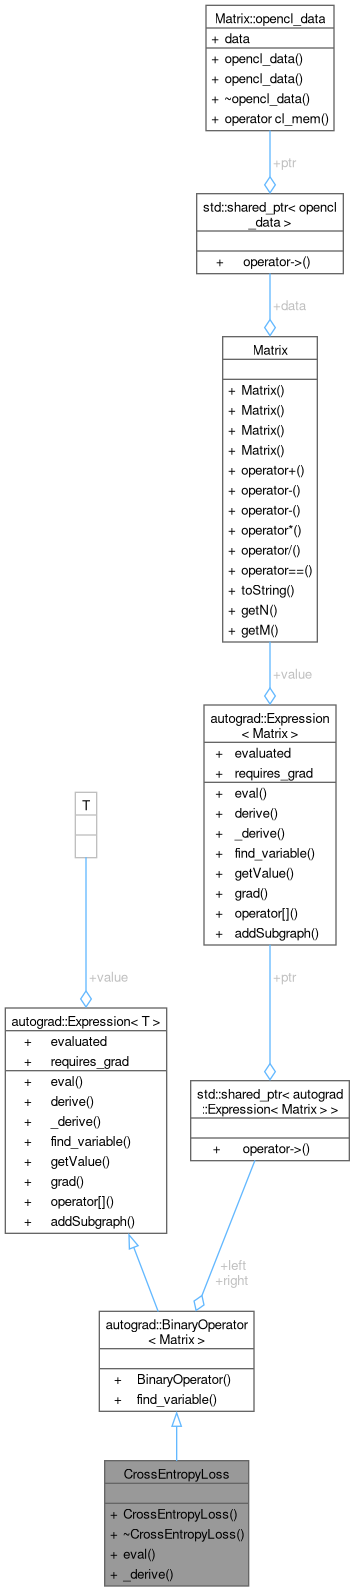
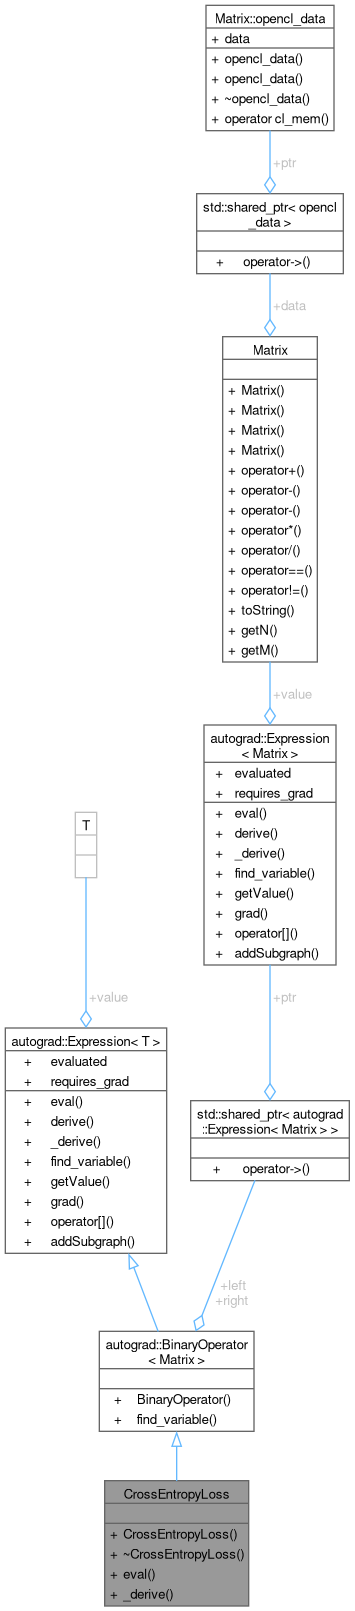
deploy: 7e983b3facf35f282086e7a9edfca2e256aae604

Changed region(s): [[0.5577, 0.0, 0.9606, 0.616], [0.031, 0.616, 0.9915, 0.9855], [0.2169, 0.4928, 0.2789, 0.5544]]

diff --git a/Matrix_8h_source.html b/Matrix_8h_source.html
@@ -160,19 +160,20 @@ $(function(){initNavTree('Matrix_8h_source.html',''); initResizable(); });
 <div class="line"><a id="l00080" name="l00080"></a><span class="lineno">   80</span>  <a class="code hl_class" href="classMatrix.html">Matrix</a> operator/(<span class="keyword">const</span> <a class="code hl_class" href="classMatrix.html">Matrix</a> &amp;other) <span class="keyword">const</span>;</div>
 <div class="line"><a id="l00081" name="l00081"></a><span class="lineno">   81</span> </div>
 <div class="line"><a id="l00082" name="l00082"></a><span class="lineno">   82</span>  <span class="keywordtype">bool</span> operator==(<span class="keyword">const</span> <a class="code hl_class" href="classMatrix.html">Matrix</a> &amp;other) <span class="keyword">const</span>;</div>
-<div class="line"><a id="l00083" name="l00083"></a><span class="lineno">   83</span> </div>
-<div class="line"><a id="l00089" name="l00089"></a><span class="lineno">   89</span>  std::string <a class="code hl_function" href="classMatrix.html#ae7b85f11d14cbb6db0aaaf63367e4495">toString</a>() <span class="keyword">const</span>;</div>
-<div class="line"><a id="l00090" name="l00090"></a><span class="lineno">   90</span> </div>
-<div class="line"><a id="l00096" name="l00096"></a><span class="lineno">   96</span>  <span class="keywordtype">size_t</span> <a class="code hl_function" href="classMatrix.html#ad7ec78c77398077cde507c32df69a0bd">getN</a>();</div>
-<div class="line"><a id="l00102" name="l00102"></a><span class="lineno">  102</span>  <span class="keywordtype">size_t</span> <a class="code hl_function" href="classMatrix.html#a4f8207471478ed8f8779ee7fe4efedfe">getM</a>();</div>
-<div class="line"><a id="l00106" name="l00106"></a><span class="lineno"><a class="line" href="classMatrix.html#a094fd936bb6dbc68545d29a760818a7f">  106</a></span>  std::shared_ptr&lt;opencl_data&gt; <a class="code hl_variable" href="classMatrix.html#a094fd936bb6dbc68545d29a760818a7f">data</a>;</div>
-<div class="line"><a id="l00107" name="l00107"></a><span class="lineno">  107</span>};</div>
+<div class="line"><a id="l00083" name="l00083"></a><span class="lineno">   83</span>  <span class="keywordtype">bool</span> operator!=(<span class="keyword">const</span> <a class="code hl_class" href="classMatrix.html">Matrix</a> &amp;other) <span class="keyword">const</span>;</div>
+<div class="line"><a id="l00084" name="l00084"></a><span class="lineno">   84</span> </div>
+<div class="line"><a id="l00090" name="l00090"></a><span class="lineno">   90</span>  std::string <a class="code hl_function" href="classMatrix.html#ae7b85f11d14cbb6db0aaaf63367e4495">toString</a>() <span class="keyword">const</span>;</div>
+<div class="line"><a id="l00091" name="l00091"></a><span class="lineno">   91</span> </div>
+<div class="line"><a id="l00097" name="l00097"></a><span class="lineno">   97</span>  <span class="keywordtype">size_t</span> <a class="code hl_function" href="classMatrix.html#ad7ec78c77398077cde507c32df69a0bd">getN</a>();</div>
+<div class="line"><a id="l00103" name="l00103"></a><span class="lineno">  103</span>  <span class="keywordtype">size_t</span> <a class="code hl_function" href="classMatrix.html#a4f8207471478ed8f8779ee7fe4efedfe">getM</a>();</div>
+<div class="line"><a id="l00107" name="l00107"></a><span class="lineno"><a class="line" href="classMatrix.html#a094fd936bb6dbc68545d29a760818a7f">  107</a></span>  std::shared_ptr&lt;opencl_data&gt; <a class="code hl_variable" href="classMatrix.html#a094fd936bb6dbc68545d29a760818a7f">data</a>;</div>
+<div class="line"><a id="l00108" name="l00108"></a><span class="lineno">  108</span>};</div>
 </div>
 <div class="ttc" id="aUtil_8h_html"><div class="ttname"><a href="Util_8h.html">Util.h</a></div><div class="ttdoc">definicija korisnih globalnih funkcija i konstanti</div></div>
 <div class="ttc" id="aUtil_8h_html_a0b20f7cf32ea44d98f1dad0373d187cf"><div class="ttname"><a href="Util_8h.html#a0b20f7cf32ea44d98f1dad0373d187cf">checkError</a></div><div class="ttdeci">void checkError(int value)</div><div class="ttdoc">funkcija koja na temelju OpenCL koda baca iznimke ili ne vraća ništa</div><div class="ttdef"><b>Definition</b> Util.cpp:16</div></div>
 <div class="ttc" id="aUtil_8h_html_ab62df1e75bbaf76fd1088a2cfb20355b"><div class="ttname"><a href="Util_8h.html#ab62df1e75bbaf76fd1088a2cfb20355b">globalContext</a></div><div class="ttdeci">cl_context globalContext</div><div class="ttdoc">globalni OpenCL kontekst koje se inicijalizira prilikom pokretanja initCL funkcije</div><div class="ttdef"><b>Definition</b> Util.cpp:12</div></div>
 <div class="ttc" id="aclassMatrix_html"><div class="ttname"><a href="classMatrix.html">Matrix</a></div><div class="ttdoc">klasa koja enkapsulira podatke o matrici koji su spremljeni na povezanom OpenCL uređaju</div><div class="ttdef"><b>Definition</b> Matrix.h:20</div></div>
-<div class="ttc" id="aclassMatrix_html_a094fd936bb6dbc68545d29a760818a7f"><div class="ttname"><a href="classMatrix.html#a094fd936bb6dbc68545d29a760818a7f">Matrix::data</a></div><div class="ttdeci">std::shared_ptr&lt; opencl_data &gt; data</div><div class="ttdoc">referenca na OpenCL podatke</div><div class="ttdef"><b>Definition</b> Matrix.h:106</div></div>
+<div class="ttc" id="aclassMatrix_html_a094fd936bb6dbc68545d29a760818a7f"><div class="ttname"><a href="classMatrix.html#a094fd936bb6dbc68545d29a760818a7f">Matrix::data</a></div><div class="ttdeci">std::shared_ptr&lt; opencl_data &gt; data</div><div class="ttdoc">referenca na OpenCL podatke</div><div class="ttdef"><b>Definition</b> Matrix.h:107</div></div>
 <div class="ttc" id="aclassMatrix_html_a2dba13c45127354c9f75ef576f49269b"><div class="ttname"><a href="classMatrix.html#a2dba13c45127354c9f75ef576f49269b">Matrix::Matrix</a></div><div class="ttdeci">Matrix()</div><div class="ttdoc">prazni konstruktor koji se koristi za neinicijalizirane matrice</div><div class="ttdef"><b>Definition</b> Matrix.cpp:38</div></div>
 <div class="ttc" id="aclassMatrix_html_a4f8207471478ed8f8779ee7fe4efedfe"><div class="ttname"><a href="classMatrix.html#a4f8207471478ed8f8779ee7fe4efedfe">Matrix::getM</a></div><div class="ttdeci">size_t getM()</div><div class="ttdoc">getter za broj M</div><div class="ttdef"><b>Definition</b> Matrix.cpp:71</div></div>
 <div class="ttc" id="aclassMatrix_html_ad7ec78c77398077cde507c32df69a0bd"><div class="ttname"><a href="classMatrix.html#ad7ec78c77398077cde507c32df69a0bd">Matrix::getN</a></div><div class="ttdeci">size_t getN()</div><div class="ttdoc">getter za broj N</div><div class="ttdef"><b>Definition</b> Matrix.cpp:68</div></div>

diff --git a/classMatrix-members.html b/classMatrix-members.html
@@ -123,13 +123,14 @@ $(function(){initNavTree('classMatrix.html',''); initResizable(); });
   <tr class="even"><td class="entry"><a class="el" href="classMatrix.html#ae50a96f84c232df0d625ebbeee95cce7">Matrix</a>(std::initializer_list&lt; std::initializer_list&lt; float &gt; &gt; mat)</td><td class="entry"><a class="el" href="classMatrix.html">Matrix</a></td><td class="entry"></td></tr>
   <tr class="odd"><td class="entry"><a class="el" href="classMatrix.html#a49cc9b0f09e493648471bb928281acfe">Matrix</a>(const float x)</td><td class="entry"><a class="el" href="classMatrix.html">Matrix</a></td><td class="entry"></td></tr>
   <tr class="even"><td class="entry"><a class="el" href="classMatrix.html#a2dba13c45127354c9f75ef576f49269b">Matrix</a>()</td><td class="entry"><a class="el" href="classMatrix.html">Matrix</a></td><td class="entry"></td></tr>
-  <tr bgcolor="#f0f0f0" class="odd"><td class="entry"><b>operator*</b>(const Matrix &amp;other) const (definirano u <a class="el" href="classMatrix.html">Matrix</a>)</td><td class="entry"><a class="el" href="classMatrix.html">Matrix</a></td><td class="entry"></td></tr>
-  <tr bgcolor="#f0f0f0" class="even"><td class="entry"><b>operator+</b>(const Matrix &amp;other) const (definirano u <a class="el" href="classMatrix.html">Matrix</a>)</td><td class="entry"><a class="el" href="classMatrix.html">Matrix</a></td><td class="entry"></td></tr>
-  <tr bgcolor="#f0f0f0" class="odd"><td class="entry"><b>operator-</b>(const Matrix &amp;other) const (definirano u <a class="el" href="classMatrix.html">Matrix</a>)</td><td class="entry"><a class="el" href="classMatrix.html">Matrix</a></td><td class="entry"></td></tr>
-  <tr bgcolor="#f0f0f0" class="even"><td class="entry"><b>operator-</b>() const (definirano u <a class="el" href="classMatrix.html">Matrix</a>)</td><td class="entry"><a class="el" href="classMatrix.html">Matrix</a></td><td class="entry"></td></tr>
-  <tr bgcolor="#f0f0f0" class="odd"><td class="entry"><b>operator/</b>(const Matrix &amp;other) const (definirano u <a class="el" href="classMatrix.html">Matrix</a>)</td><td class="entry"><a class="el" href="classMatrix.html">Matrix</a></td><td class="entry"></td></tr>
-  <tr bgcolor="#f0f0f0" class="even"><td class="entry"><b>operator==</b>(const Matrix &amp;other) const (definirano u <a class="el" href="classMatrix.html">Matrix</a>)</td><td class="entry"><a class="el" href="classMatrix.html">Matrix</a></td><td class="entry"></td></tr>
-  <tr class="odd"><td class="entry"><a class="el" href="classMatrix.html#ae7b85f11d14cbb6db0aaaf63367e4495">toString</a>() const</td><td class="entry"><a class="el" href="classMatrix.html">Matrix</a></td><td class="entry"></td></tr>
+  <tr bgcolor="#f0f0f0" class="odd"><td class="entry"><b>operator!=</b>(const Matrix &amp;other) const (definirano u <a class="el" href="classMatrix.html">Matrix</a>)</td><td class="entry"><a class="el" href="classMatrix.html">Matrix</a></td><td class="entry"></td></tr>
+  <tr bgcolor="#f0f0f0" class="even"><td class="entry"><b>operator*</b>(const Matrix &amp;other) const (definirano u <a class="el" href="classMatrix.html">Matrix</a>)</td><td class="entry"><a class="el" href="classMatrix.html">Matrix</a></td><td class="entry"></td></tr>
+  <tr bgcolor="#f0f0f0" class="odd"><td class="entry"><b>operator+</b>(const Matrix &amp;other) const (definirano u <a class="el" href="classMatrix.html">Matrix</a>)</td><td class="entry"><a class="el" href="classMatrix.html">Matrix</a></td><td class="entry"></td></tr>
+  <tr bgcolor="#f0f0f0" class="even"><td class="entry"><b>operator-</b>(const Matrix &amp;other) const (definirano u <a class="el" href="classMatrix.html">Matrix</a>)</td><td class="entry"><a class="el" href="classMatrix.html">Matrix</a></td><td class="entry"></td></tr>
+  <tr bgcolor="#f0f0f0" class="odd"><td class="entry"><b>operator-</b>() const (definirano u <a class="el" href="classMatrix.html">Matrix</a>)</td><td class="entry"><a class="el" href="classMatrix.html">Matrix</a></td><td class="entry"></td></tr>
+  <tr bgcolor="#f0f0f0" class="even"><td class="entry"><b>operator/</b>(const Matrix &amp;other) const (definirano u <a class="el" href="classMatrix.html">Matrix</a>)</td><td class="entry"><a class="el" href="classMatrix.html">Matrix</a></td><td class="entry"></td></tr>
+  <tr bgcolor="#f0f0f0" class="odd"><td class="entry"><b>operator==</b>(const Matrix &amp;other) const (definirano u <a class="el" href="classMatrix.html">Matrix</a>)</td><td class="entry"><a class="el" href="classMatrix.html">Matrix</a></td><td class="entry"></td></tr>
+  <tr class="even"><td class="entry"><a class="el" href="classMatrix.html#ae7b85f11d14cbb6db0aaaf63367e4495">toString</a>() const</td><td class="entry"><a class="el" href="classMatrix.html">Matrix</a></td><td class="entry"></td></tr>
 </table></div><!-- contents -->
 </div><!-- doc-content -->
 <!-- start footer part -->

diff --git a/classReLU.html b/classReLU.html
@@ -140,25 +140,25 @@ Kolaboracijski dijagram za ReLU:</div>
 <div class="dyncontent">
 <div class="center"><img src="classReLU__coll__graph.png" border="0" usemap="#aReLU_coll__map" alt="Collaboration graph"/></div>
 <map name="aReLU_coll__map" id="aReLU_coll__map">
-<area shape="rect" title="klasa koja implementira funkciju &quot;leaky ReLU&quot;" alt="" coords="211,1446,319,1591"/>
-<area shape="rect" href="structautograd_1_1UnaryOperator.html" title=" " alt="" coords="100,1296,253,1396"/>
-<area shape="poly" title=" " alt="" coords="211,1408,230,1445,225,1447,207,1411"/>
-<area shape="rect" href="structautograd_1_1Expression.html" title="struktura koja predstavlja apstraktni matematički izraz ili varijablu. Generalno ju možemo zamisliti ..." alt="" coords="5,1008,167,1233"/>
-<area shape="poly" title=" " alt="" coords="139,1246,160,1296,155,1298,134,1248"/>
-<area shape="rect" title=" " alt="" coords="75,792,97,858"/>
-<area shape="poly" title=" " alt="" coords="89,857,89,991,83,991,83,857"/>
-<area shape="rect" title=" " alt="" coords="191,1081,349,1161"/>
-<area shape="poly" title=" " alt="" coords="256,1161,206,1282,201,1280,251,1159"/>
-<area shape="rect" href="structautograd_1_1Expression.html" title=" " alt="" coords="204,705,336,945"/>
-<area shape="poly" title=" " alt="" coords="273,945,273,1064,267,1064,267,945"/>
-<area shape="rect" href="classMatrix.html" title="klasa koja enkapsulira podatke o matrici koji su spremljeni na povezanom OpenCL uređaju" alt="" coords="223,337,317,642"/>
-<area shape="poly" title=" " alt="" coords="273,642,273,688,267,688,267,642"/>
+<area shape="rect" title="klasa koja implementira funkciju &quot;leaky ReLU&quot;" alt="" coords="211,1466,319,1611"/>
+<area shape="rect" href="structautograd_1_1UnaryOperator.html" title=" " alt="" coords="100,1316,253,1416"/>
+<area shape="poly" title=" " alt="" coords="211,1428,230,1465,225,1467,207,1431"/>
+<area shape="rect" href="structautograd_1_1Expression.html" title="struktura koja predstavlja apstraktni matematički izraz ili varijablu. Generalno ju možemo zamisliti ..." alt="" coords="5,1028,167,1253"/>
+<area shape="poly" title=" " alt="" coords="139,1266,160,1316,155,1318,134,1268"/>
+<area shape="rect" title=" " alt="" coords="75,812,97,878"/>
+<area shape="poly" title=" " alt="" coords="89,877,89,1011,83,1011,83,877"/>
+<area shape="rect" title=" " alt="" coords="191,1101,349,1181"/>
+<area shape="poly" title=" " alt="" coords="256,1181,206,1302,201,1300,251,1179"/>
+<area shape="rect" href="structautograd_1_1Expression.html" title=" " alt="" coords="204,725,336,965"/>
+<area shape="poly" title=" " alt="" coords="273,965,273,1084,267,1084,267,965"/>
+<area shape="rect" href="classMatrix.html" title="klasa koja enkapsulira podatke o matrici koji su spremljeni na povezanom OpenCL uređaju" alt="" coords="223,337,317,662"/>
+<area shape="poly" title=" " alt="" coords="273,662,273,708,267,708,267,662"/>
 <area shape="rect" title=" " alt="" coords="197,194,343,274"/>
 <area shape="poly" title=" " alt="" coords="273,273,273,320,267,320,267,273"/>
 <area shape="rect" title=" " alt="" coords="206,5,334,131"/>
 <area shape="poly" title=" " alt="" coords="273,130,273,177,267,177,267,130"/>
-<area shape="rect" title=" " alt="" coords="278,1299,427,1394"/>
-<area shape="poly" title=" " alt="" coords="324,1408,304,1448,299,1445,320,1406"/>
+<area shape="rect" title=" " alt="" coords="278,1319,427,1414"/>
+<area shape="poly" title=" " alt="" coords="324,1428,304,1468,299,1465,320,1426"/>
 </map>
 </div>
 <table class="memberdecls">

diff --git a/classSigmoid.html b/classSigmoid.html
@@ -140,25 +140,25 @@ Kolaboracijski dijagram za Sigmoid:</div>
 <div class="dyncontent">
 <div class="center"><img src="classSigmoid__coll__graph.png" border="0" usemap="#aSigmoid_coll__map" alt="Collaboration graph"/></div>
 <map name="aSigmoid_coll__map" id="aSigmoid_coll__map">
-<area shape="rect" title="implementacije sigmoid funkcije:" alt="" coords="211,1446,319,1591"/>
-<area shape="rect" href="structautograd_1_1UnaryOperator.html" title=" " alt="" coords="100,1296,253,1396"/>
-<area shape="poly" title=" " alt="" coords="211,1408,230,1445,225,1447,207,1411"/>
-<area shape="rect" href="structautograd_1_1Expression.html" title="struktura koja predstavlja apstraktni matematički izraz ili varijablu. Generalno ju možemo zamisliti ..." alt="" coords="5,1008,167,1233"/>
-<area shape="poly" title=" " alt="" coords="139,1246,160,1296,155,1298,134,1248"/>
-<area shape="rect" title=" " alt="" coords="75,792,97,858"/>
-<area shape="poly" title=" " alt="" coords="89,857,89,991,83,991,83,857"/>
-<area shape="rect" title=" " alt="" coords="191,1081,349,1161"/>
-<area shape="poly" title=" " alt="" coords="256,1161,206,1282,201,1280,251,1159"/>
-<area shape="rect" href="structautograd_1_1Expression.html" title=" " alt="" coords="204,705,336,945"/>
-<area shape="poly" title=" " alt="" coords="273,945,273,1064,267,1064,267,945"/>
-<area shape="rect" href="classMatrix.html" title="klasa koja enkapsulira podatke o matrici koji su spremljeni na povezanom OpenCL uređaju" alt="" coords="223,337,317,642"/>
-<area shape="poly" title=" " alt="" coords="273,642,273,688,267,688,267,642"/>
+<area shape="rect" title="implementacije sigmoid funkcije:" alt="" coords="211,1466,319,1611"/>
+<area shape="rect" href="structautograd_1_1UnaryOperator.html" title=" " alt="" coords="100,1316,253,1416"/>
+<area shape="poly" title=" " alt="" coords="211,1428,230,1465,225,1467,207,1431"/>
+<area shape="rect" href="structautograd_1_1Expression.html" title="struktura koja predstavlja apstraktni matematički izraz ili varijablu. Generalno ju možemo zamisliti ..." alt="" coords="5,1028,167,1253"/>
+<area shape="poly" title=" " alt="" coords="139,1266,160,1316,155,1318,134,1268"/>
+<area shape="rect" title=" " alt="" coords="75,812,97,878"/>
+<area shape="poly" title=" " alt="" coords="89,877,89,1011,83,1011,83,877"/>
+<area shape="rect" title=" " alt="" coords="191,1101,349,1181"/>
+<area shape="poly" title=" " alt="" coords="256,1181,206,1302,201,1300,251,1179"/>
+<area shape="rect" href="structautograd_1_1Expression.html" title=" " alt="" coords="204,725,336,965"/>
+<area shape="poly" title=" " alt="" coords="273,965,273,1084,267,1084,267,965"/>
+<area shape="rect" href="classMatrix.html" title="klasa koja enkapsulira podatke o matrici koji su spremljeni na povezanom OpenCL uređaju" alt="" coords="223,337,317,662"/>
+<area shape="poly" title=" " alt="" coords="273,662,273,708,267,708,267,662"/>
 <area shape="rect" title=" " alt="" coords="197,194,343,274"/>
 <area shape="poly" title=" " alt="" coords="273,273,273,320,267,320,267,273"/>
 <area shape="rect" title=" " alt="" coords="206,5,334,131"/>
 <area shape="poly" title=" " alt="" coords="273,130,273,177,267,177,267,130"/>
-<area shape="rect" title=" " alt="" coords="278,1299,427,1394"/>
-<area shape="poly" title=" " alt="" coords="324,1408,304,1448,299,1445,320,1406"/>
+<area shape="rect" title=" " alt="" coords="278,1319,427,1414"/>
+<area shape="poly" title=" " alt="" coords="324,1428,304,1468,299,1465,320,1426"/>
 </map>
 </div>
 <table class="memberdecls">

diff --git a/structautograd_1_1VectorSumReduction.html b/structautograd_1_1VectorSumReduction.html
@@ -139,19 +139,19 @@ Kolaboracijski dijagram za autograd::VectorSumReduction:</div>
 <div class="dyncontent">
 <div class="center"><img src="structautograd_1_1VectorSumReduction__coll__graph.png" border="0" usemap="#aautograd_1_1VectorSumReduction_coll__map" alt="Collaboration graph"/></div>
 <map name="aautograd_1_1VectorSumReduction_coll__map" id="aautograd_1_1VectorSumReduction_coll__map">
-<area shape="rect" title="unarni operator redukcije matrice u vektora zbrajanjem po proizvoljnoj osi" alt="" coords="81,1446,273,1571"/>
-<area shape="rect" href="structautograd_1_1UnaryOperator.html" title=" " alt="" coords="100,1296,253,1396"/>
-<area shape="poly" title=" " alt="" coords="179,1411,179,1446,174,1446,174,1411"/>
-<area shape="rect" href="structautograd_1_1Expression.html" title="struktura koja predstavlja apstraktni matematički izraz ili varijablu. Generalno ju možemo zamisliti ..." alt="" coords="5,1008,167,1233"/>
-<area shape="poly" title=" " alt="" coords="139,1246,160,1296,155,1298,134,1248"/>
-<area shape="rect" title=" " alt="" coords="75,792,97,858"/>
-<area shape="poly" title=" " alt="" coords="89,857,89,991,83,991,83,857"/>
-<area shape="rect" title=" " alt="" coords="191,1081,349,1161"/>
-<area shape="poly" title=" " alt="" coords="256,1161,206,1282,201,1280,251,1159"/>
-<area shape="rect" href="structautograd_1_1Expression.html" title=" " alt="" coords="204,705,336,945"/>
-<area shape="poly" title=" " alt="" coords="273,945,273,1064,267,1064,267,945"/>
-<area shape="rect" href="classMatrix.html" title="klasa koja enkapsulira podatke o matrici koji su spremljeni na povezanom OpenCL uređaju" alt="" coords="223,337,317,642"/>
-<area shape="poly" title=" " alt="" coords="273,642,273,688,267,688,267,642"/>
+<area shape="rect" title="unarni operator redukcije matrice u vektora zbrajanjem po proizvoljnoj osi" alt="" coords="81,1466,273,1591"/>
+<area shape="rect" href="structautograd_1_1UnaryOperator.html" title=" " alt="" coords="100,1316,253,1416"/>
+<area shape="poly" title=" " alt="" coords="179,1431,179,1466,174,1466,174,1431"/>
+<area shape="rect" href="structautograd_1_1Expression.html" title="struktura koja predstavlja apstraktni matematički izraz ili varijablu. Generalno ju možemo zamisliti ..." alt="" coords="5,1028,167,1253"/>
+<area shape="poly" title=" " alt="" coords="139,1266,160,1316,155,1318,134,1268"/>
+<area shape="rect" title=" " alt="" coords="75,812,97,878"/>
+<area shape="poly" title=" " alt="" coords="89,877,89,1011,83,1011,83,877"/>
+<area shape="rect" title=" " alt="" coords="191,1101,349,1181"/>
+<area shape="poly" title=" " alt="" coords="256,1181,206,1302,201,1300,251,1179"/>
+<area shape="rect" href="structautograd_1_1Expression.html" title=" " alt="" coords="204,725,336,965"/>
+<area shape="poly" title=" " alt="" coords="273,965,273,1084,267,1084,267,965"/>
+<area shape="rect" href="classMatrix.html" title="klasa koja enkapsulira podatke o matrici koji su spremljeni na povezanom OpenCL uređaju" alt="" coords="223,337,317,662"/>
+<area shape="poly" title=" " alt="" coords="273,662,273,708,267,708,267,662"/>
 <area shape="rect" title=" " alt="" coords="197,194,343,274"/>
 <area shape="poly" title=" " alt="" coords="273,273,273,320,267,320,267,273"/>
 <area shape="rect" title=" " alt="" coords="206,5,334,131"/>

diff --git a/structautograd_1_1MatrixMultply.html b/structautograd_1_1MatrixMultply.html
@@ -139,19 +139,19 @@ Kolaboracijski dijagram za autograd::MatrixMultply:</div>
 <div class="dyncontent">
 <div class="center"><img src="structautograd_1_1MatrixMultply__coll__graph.png" border="0" usemap="#aautograd_1_1MatrixMultply_coll__map" alt="Collaboration graph"/></div>
 <map name="aautograd_1_1MatrixMultply_coll__map" id="aautograd_1_1MatrixMultply_coll__map">
-<area shape="rect" title="klasa koja predstavlja binarni operator matričnog množenja" alt="" coords="104,1461,249,1606"/>
-<area shape="rect" href="structautograd_1_1BinaryOperator.html" title=" " alt="" coords="99,1311,254,1411"/>
-<area shape="poly" title=" " alt="" coords="179,1426,179,1461,174,1461,174,1426"/>
-<area shape="rect" href="structautograd_1_1Expression.html" title="struktura koja predstavlja apstraktni matematički izraz ili varijablu. Generalno ju možemo zamisliti ..." alt="" coords="5,1008,167,1233"/>
-<area shape="poly" title=" " alt="" coords="136,1246,161,1311,156,1313,131,1248"/>
-<area shape="rect" title=" " alt="" coords="75,792,97,858"/>
-<area shape="poly" title=" " alt="" coords="89,857,89,991,83,991,83,857"/>
-<area shape="rect" title=" " alt="" coords="191,1081,349,1161"/>
-<area shape="poly" title=" " alt="" coords="257,1161,204,1297,199,1295,253,1159"/>
-<area shape="rect" href="structautograd_1_1Expression.html" title=" " alt="" coords="204,705,336,945"/>
-<area shape="poly" title=" " alt="" coords="273,945,273,1064,267,1064,267,945"/>
-<area shape="rect" href="classMatrix.html" title="klasa koja enkapsulira podatke o matrici koji su spremljeni na povezanom OpenCL uređaju" alt="" coords="223,337,317,642"/>
-<area shape="poly" title=" " alt="" coords="273,642,273,688,267,688,267,642"/>
+<area shape="rect" title="klasa koja predstavlja binarni operator matričnog množenja" alt="" coords="104,1481,249,1626"/>
+<area shape="rect" href="structautograd_1_1BinaryOperator.html" title=" " alt="" coords="99,1331,254,1431"/>
+<area shape="poly" title=" " alt="" coords="179,1446,179,1481,174,1481,174,1446"/>
+<area shape="rect" href="structautograd_1_1Expression.html" title="struktura koja predstavlja apstraktni matematički izraz ili varijablu. Generalno ju možemo zamisliti ..." alt="" coords="5,1028,167,1253"/>
+<area shape="poly" title=" " alt="" coords="136,1266,161,1331,156,1333,131,1268"/>
+<area shape="rect" title=" " alt="" coords="75,812,97,878"/>
+<area shape="poly" title=" " alt="" coords="89,877,89,1011,83,1011,83,877"/>
+<area shape="rect" title=" " alt="" coords="191,1101,349,1181"/>
+<area shape="poly" title=" " alt="" coords="257,1181,204,1317,199,1315,253,1179"/>
+<area shape="rect" href="structautograd_1_1Expression.html" title=" " alt="" coords="204,725,336,965"/>
+<area shape="poly" title=" " alt="" coords="273,965,273,1084,267,1084,267,965"/>
+<area shape="rect" href="classMatrix.html" title="klasa koja enkapsulira podatke o matrici koji su spremljeni na povezanom OpenCL uređaju" alt="" coords="223,337,317,662"/>
+<area shape="poly" title=" " alt="" coords="273,662,273,708,267,708,267,662"/>
 <area shape="rect" title=" " alt="" coords="197,194,343,274"/>
 <area shape="poly" title=" " alt="" coords="273,273,273,320,267,320,267,273"/>
 <area shape="rect" title=" " alt="" coords="206,5,334,131"/>

diff --git a/structautograd_1_1MatrixVectorAdd.html b/structautograd_1_1MatrixVectorAdd.html
@@ -138,19 +138,19 @@ Kolaboracijski dijagram za autograd::MatrixVectorAdd:</div>
 <div class="dyncontent">
 <div class="center"><img src="structautograd_1_1MatrixVectorAdd__coll__graph.png" border="0" usemap="#aautograd_1_1MatrixVectorAdd_coll__map" alt="Collaboration graph"/></div>
 <map name="aautograd_1_1MatrixVectorAdd_coll__map" id="aautograd_1_1MatrixVectorAdd_coll__map">
-<area shape="rect" title="binarni operator zbrajanja matrice s vektorom:" alt="" coords="94,1461,259,1586"/>
-<area shape="rect" href="structautograd_1_1BinaryOperator.html" title=" " alt="" coords="99,1311,254,1411"/>
-<area shape="poly" title=" " alt="" coords="179,1426,179,1461,174,1461,174,1426"/>
-<area shape="rect" href="structautograd_1_1Expression.html" title="struktura koja predstavlja apstraktni matematički izraz ili varijablu. Generalno ju možemo zamisliti ..." alt="" coords="5,1008,167,1233"/>
-<area shape="poly" title=" " alt="" coords="136,1246,161,1311,156,1313,131,1248"/>
-<area shape="rect" title=" " alt="" coords="75,792,97,858"/>
-<area shape="poly" title=" " alt="" coords="89,857,89,991,83,991,83,857"/>
-<area shape="rect" title=" " alt="" coords="191,1081,349,1161"/>
-<area shape="poly" title=" " alt="" coords="257,1161,204,1297,199,1295,253,1159"/>
-<area shape="rect" href="structautograd_1_1Expression.html" title=" " alt="" coords="204,705,336,945"/>
-<area shape="poly" title=" " alt="" coords="273,945,273,1064,267,1064,267,945"/>
-<area shape="rect" href="classMatrix.html" title="klasa koja enkapsulira podatke o matrici koji su spremljeni na povezanom OpenCL uređaju" alt="" coords="223,337,317,642"/>
-<area shape="poly" title=" " alt="" coords="273,642,273,688,267,688,267,642"/>
+<area shape="rect" title="binarni operator zbrajanja matrice s vektorom:" alt="" coords="94,1481,259,1606"/>
+<area shape="rect" href="structautograd_1_1BinaryOperator.html" title=" " alt="" coords="99,1331,254,1431"/>
+<area shape="poly" title=" " alt="" coords="179,1446,179,1481,174,1481,174,1446"/>
+<area shape="rect" href="structautograd_1_1Expression.html" title="struktura koja predstavlja apstraktni matematički izraz ili varijablu. Generalno ju možemo zamisliti ..." alt="" coords="5,1028,167,1253"/>
+<area shape="poly" title=" " alt="" coords="136,1266,161,1331,156,1333,131,1268"/>
+<area shape="rect" title=" " alt="" coords="75,812,97,878"/>
+<area shape="poly" title=" " alt="" coords="89,877,89,1011,83,1011,83,877"/>
+<area shape="rect" title=" " alt="" coords="191,1101,349,1181"/>
+<area shape="poly" title=" " alt="" coords="257,1181,204,1317,199,1315,253,1179"/>
+<area shape="rect" href="structautograd_1_1Expression.html" title=" " alt="" coords="204,725,336,965"/>
+<area shape="poly" title=" " alt="" coords="273,965,273,1084,267,1084,267,965"/>
+<area shape="rect" href="classMatrix.html" title="klasa koja enkapsulira podatke o matrici koji su spremljeni na povezanom OpenCL uređaju" alt="" coords="223,337,317,662"/>
+<area shape="poly" title=" " alt="" coords="273,662,273,708,267,708,267,662"/>
 <area shape="rect" title=" " alt="" coords="197,194,343,274"/>
 <area shape="poly" title=" " alt="" coords="273,273,273,320,267,320,267,273"/>
 <area shape="rect" title=" " alt="" coords="206,5,334,131"/>

diff --git a/classCrossEntropyLoss.html b/classCrossEntropyLoss.html
@@ -133,19 +133,19 @@ Kolaboracijski dijagram za CrossEntropyLoss:</div>
 <div class="dyncontent">
 <div class="center"><img src="classCrossEntropyLoss__coll__graph.png" border="0" usemap="#aCrossEntropyLoss_coll__map" alt="Collaboration graph"/></div>
 <map name="aCrossEntropyLoss_coll__map" id="aCrossEntropyLoss_coll__map">
-<area shape="rect" title=" " alt="" coords="105,1461,249,1586"/>
-<area shape="rect" href="structautograd_1_1BinaryOperator.html" title=" " alt="" coords="99,1311,254,1411"/>
-<area shape="poly" title=" " alt="" coords="179,1426,179,1461,174,1461,174,1426"/>
-<area shape="rect" href="structautograd_1_1Expression.html" title="struktura koja predstavlja apstraktni matematički izraz ili varijablu. Generalno ju možemo zamisliti ..." alt="" coords="5,1008,167,1233"/>
-<area shape="poly" title=" " alt="" coords="136,1246,161,1311,156,1313,131,1248"/>
-<area shape="rect" title=" " alt="" coords="75,792,97,858"/>
-<area shape="poly" title=" " alt="" coords="89,857,89,991,83,991,83,857"/>
-<area shape="rect" title=" " alt="" coords="191,1081,349,1161"/>
-<area shape="poly" title=" " alt="" coords="257,1161,204,1297,199,1295,253,1159"/>
-<area shape="rect" href="structautograd_1_1Expression.html" title=" " alt="" coords="204,705,336,945"/>
-<area shape="poly" title=" " alt="" coords="273,945,273,1064,267,1064,267,945"/>
-<area shape="rect" href="classMatrix.html" title="klasa koja enkapsulira podatke o matrici koji su spremljeni na povezanom OpenCL uređaju" alt="" coords="223,337,317,642"/>
-<area shape="poly" title=" " alt="" coords="273,642,273,688,267,688,267,642"/>
+<area shape="rect" title=" " alt="" coords="105,1481,249,1606"/>
+<area shape="rect" href="structautograd_1_1BinaryOperator.html" title=" " alt="" coords="99,1331,254,1431"/>
+<area shape="poly" title=" " alt="" coords="179,1446,179,1481,174,1481,174,1446"/>
+<area shape="rect" href="structautograd_1_1Expression.html" title="struktura koja predstavlja apstraktni matematički izraz ili varijablu. Generalno ju možemo zamisliti ..." alt="" coords="5,1028,167,1253"/>
+<area shape="poly" title=" " alt="" coords="136,1266,161,1331,156,1333,131,1268"/>
+<area shape="rect" title=" " alt="" coords="75,812,97,878"/>
+<area shape="poly" title=" " alt="" coords="89,877,89,1011,83,1011,83,877"/>
+<area shape="rect" title=" " alt="" coords="191,1101,349,1181"/>
+<area shape="poly" title=" " alt="" coords="257,1181,204,1317,199,1315,253,1179"/>
+<area shape="rect" href="structautograd_1_1Expression.html" title=" " alt="" coords="204,725,336,965"/>
+<area shape="poly" title=" " alt="" coords="273,965,273,1084,267,1084,267,965"/>
+<area shape="rect" href="classMatrix.html" title="klasa koja enkapsulira podatke o matrici koji su spremljeni na povezanom OpenCL uređaju" alt="" coords="223,337,317,662"/>
+<area shape="poly" title=" " alt="" coords="273,662,273,708,267,708,267,662"/>
 <area shape="rect" title=" " alt="" coords="197,194,343,274"/>
 <area shape="poly" title=" " alt="" coords="273,273,273,320,267,320,267,273"/>
 <area shape="rect" title=" " alt="" coords="206,5,334,131"/>

diff --git a/classMatrix.html b/classMatrix.html
@@ -127,7 +127,7 @@ Kolaboracijski dijagram za Matrix:</div>
 <div class="dyncontent">
 <div class="center"><img src="classMatrix__coll__graph.png" border="0" usemap="#aMatrix_coll__map" alt="Collaboration graph"/></div>
 <map name="aMatrix_coll__map" id="aMatrix_coll__map">
-<area shape="rect" title="klasa koja enkapsulira podatke o matrici koji su spremljeni na povezanom OpenCL uređaju" alt="" coords="31,337,126,642"/>
+<area shape="rect" title="klasa koja enkapsulira podatke o matrici koji su spremljeni na povezanom OpenCL uređaju" alt="" coords="31,337,126,662"/>
 <area shape="rect" title=" " alt="" coords="5,194,152,274"/>
 <area shape="poly" title=" " alt="" coords="81,273,81,320,76,320,76,273"/>
 <area shape="rect" title=" " alt="" coords="15,5,143,131"/>
@@ -168,6 +168,9 @@ Public članovi</h2></td></tr>
 <tr class="memitem:a797d03df703f77cccb25ab9a0770e760" id="r_a797d03df703f77cccb25ab9a0770e760"><td class="memItemLeft" align="right" valign="top"><a id="a797d03df703f77cccb25ab9a0770e760" name="a797d03df703f77cccb25ab9a0770e760"></a>
 bool&#160;</td><td class="memItemRight" valign="bottom"><b>operator==</b> (const <a class="el" href="classMatrix.html">Matrix</a> &amp;other) const</td></tr>
 <tr class="separator:a797d03df703f77cccb25ab9a0770e760"><td class="memSeparator" colspan="2">&#160;</td></tr>
+<tr class="memitem:a44f33a4281273fc500bae6d2c4d86f34" id="r_a44f33a4281273fc500bae6d2c4d86f34"><td class="memItemLeft" align="right" valign="top"><a id="a44f33a4281273fc500bae6d2c4d86f34" name="a44f33a4281273fc500bae6d2c4d86f34"></a>
+bool&#160;</td><td class="memItemRight" valign="bottom"><b>operator!=</b> (const <a class="el" href="classMatrix.html">Matrix</a> &amp;other) const</td></tr>
+<tr class="separator:a44f33a4281273fc500bae6d2c4d86f34"><td class="memSeparator" colspan="2">&#160;</td></tr>
 <tr class="memitem:ae7b85f11d14cbb6db0aaaf63367e4495" id="r_ae7b85f11d14cbb6db0aaaf63367e4495"><td class="memItemLeft" align="right" valign="top">std::string&#160;</td><td class="memItemRight" valign="bottom"><a class="el" href="#ae7b85f11d14cbb6db0aaaf63367e4495">toString</a> () const</td></tr>
 <tr class="memdesc:ae7b85f11d14cbb6db0aaaf63367e4495"><td class="mdescLeft">&#160;</td><td class="mdescRight">pretvori matricu u std::string  <br /></td></tr>
 <tr class="separator:ae7b85f11d14cbb6db0aaaf63367e4495"><td class="memSeparator" colspan="2">&#160;</td></tr>
